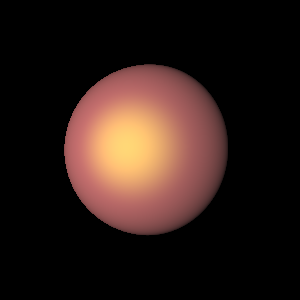
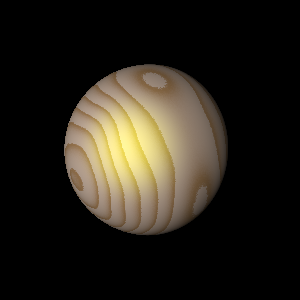
Modified constants to get wood to show up correctly on an object. Moved the main file that produces a texture image of wood to a separate Java file to use for demonstration purposes.

Changed region(s): [[0.21, 0.21, 0.75, 0.78]]

diff --git a/CS4621/src/cs4620/ray1/Wood.java b/CS4621/src/cs4620/ray1/Wood.java
@@ -1,60 +1,35 @@
 package cs4620.ray1;
 
-import egl.math.Color;
 import egl.math.Colord;
 
 public class Wood {
 	public static Colord woodColor = new Colord((144.0/255.0),(112.0/255.0),(90.0/255.0));
 	public static Colord darkColor = new Colord((93.0/255.0), (52.0/255.0), (21.0/255.0));
-	//public static Colord rayColor new Colord
-	public static void main(String[] args) {
-		int z = 1;
-		int num_pixels = 1000;
-		Image img = new Image(num_pixels, num_pixels);
-		img.clear();
-		
-		double random_noise = Math.random() * 50 + 225;
-		double random_i = Math.random() * Math.PI/6;
-		double random_j = Math.random() * Math.PI/12 + Math.PI * (5.0/12.0);
-		for (int i = 0; i < num_pixels; i++) {
-			for (int j = 0; j < num_pixels; j++) {
-				
-				// Rings
-				double newI = Math.cos(random_i) * i;
-				double newJ = Math.cos(random_j) * j;
-				
-				double newK = Math.sin(random_i) * i;
-				double noise = PerlinNoise.noise(newI/random_noise, 
-						newJ/random_noise, newK/random_noise);
-				
-				double div = 10;
-				
-				double particle_noise = PerlinNoise.noise(newK, newI, newJ)/20;
-				
-				double dist = Math.sqrt(Math.pow((newI/((num_pixels)/div)-(div/2)),2) 
-						+ Math.pow((newJ/(num_pixels/div)-(div/2)),2));
-				dist = Math.pow(1.5, dist) + noise + particle_noise;
-				
-				double t = dist-Math.floor(dist);
-				Colord thisColor = new Colord();
-				
-				double y = y(t,z);
-				thisColor.set(woodColor.r()*y+(1-y)*darkColor.r(), 
-						woodColor.g()*y+(1-y)*darkColor.g(), 
-						woodColor.b()*y+(1-y)*darkColor.b());
-				
-				
-				img.setPixelColor(thisColor, i, j);
-			}
-		}
-		
-		img.write("wood.png");
-		
 
+	public static Colord getPixelColor(double x, double y, double z, double random_noise) {
+		
+		double largeScale = 350;
+		double noise = PerlinNoise.noise(largeScale*x/random_noise, 
+				largeScale*y/random_noise, largeScale*z/random_noise);
+				
+		double particle_noise = PerlinNoise.noise(largeScale*x, largeScale*y, largeScale*z)/20;
+		
+		double smallScale = 5;
+		
+		double dist = Math.sqrt(x*x + y*y) * smallScale;
+		dist = Math.pow(1.5, dist) + noise + particle_noise;
+		
+		double t = dist-Math.floor(dist);
+		Colord thisColor = new Colord();
+		
+		double f = f(t,1);
+		thisColor.set(woodColor.clone().mul(f).addMultiple(1 - f, darkColor));
+		
+		return thisColor;
 	}
 	
-	public static double y (double t, double z) {
-		return ((z + Math.cos(2 * Math.PI * Math.pow(1-t, 0.25)))/(z+1));
+	public static double f (double t, double factor) {
+		return ((factor + Math.cos(2 * Math.PI * Math.pow(1-t, 0.25)))/(factor+1));
 	}
 
 }

diff --git a/CS4621/src/cs4620/ray1/shader/SubsurfaceCookTorrance.java b/CS4621/src/cs4620/ray1/shader/SubsurfaceCookTorrance.java
@@ -4,6 +4,7 @@ import cs4620.ray1.IntersectionRecord;
 import cs4620.ray1.Light;
 import cs4620.ray1.Ray;
 import cs4620.ray1.Scene;
+import cs4620.ray1.Wood;
 import egl.math.Color;
 import egl.math.Colord;
 import egl.math.Vector3d;
@@ -37,9 +38,11 @@ public class SubsurfaceCookTorrance extends Shader {
 	public void setFiberDirection(Vector3d fiberDirection){ this.fiberDirection.set(fiberDirection.normalize()); }
 	
 	//TODO: Change these to be a thing in the XML file
-	protected final Colord fiberColor = new Colord(Color.White);
-	protected final Colord dSubColor = new Colord(new Colord(Color.Brown).div(10));
+	protected final Colord fiberColor = new Colord(Wood.darkColor);
+	protected final Colord dSubColor = new Colord(Wood.darkColor.clone().div(20));
 	protected final double beta = 10;
+	
+	protected final double random_noise = Math.random() * 50 + 225;
 
 	public SubsurfaceCookTorrance() { }
 
@@ -66,9 +69,6 @@ public class SubsurfaceCookTorrance extends Shader {
 
 		//Reset the output color to be zero
 		outIntensity.setZero();
-
-		//To be able to user texture colors
-		Colord dColor = (texture == null) ? diffuseColor : texture.getTexColor(record.texCoords);
 		
 		//Check each light
 		for (Light light : scene.getLights()){
@@ -102,6 +102,8 @@ public class SubsurfaceCookTorrance extends Shader {
 				specTerm /= nDotV * nDotL;
 				
 				//Factor of the intensity
+				Colord dColor = Wood.getPixelColor(record.location.x, record.location.y, 
+												   record.location.z, random_noise);	
 				Vector3d color = dColor.clone().addMultiple(specTerm, specularColor);
 				
 				//Degree of reflection
@@ -117,21 +119,12 @@ public class SubsurfaceCookTorrance extends Shader {
 
 				//Then distance fall-off
 				color.mul(1/Math.pow(r, 2));
-
+				
 				//Add to the color
 				outIntensity.add(color);
 			}
 		}
 	}
-
-	/**
-	 * Schlick approximation of the Fresnel term
-	 */
-	private double getFresnelApproximation(Vector3d halfAngle, Vector3d viewingAngle) {
-		
-		return fNaught + (1 - fNaught)*Math.pow((1 - viewingAngle.dot(halfAngle)), 5);
-	}
-	
 	
 	/**
 	 * Based on the actual Fresnel Equation

diff --git a/CS4621/src/cs4620/ray1/WoodImageRenderer.java b/CS4621/src/cs4620/ray1/WoodImageRenderer.java
@@ -1,0 +1,59 @@
+package cs4620.ray1;
+
+import egl.math.Colord;
+
+public class WoodImageRenderer {
+	public static Colord woodColor = new Colord((144.0/255.0),(112.0/255.0),(90.0/255.0));
+	public static Colord darkColor = new Colord((93.0/255.0), (52.0/255.0), (21.0/255.0));
+
+	public static void main(String[] args) {
+		int z = 1;
+		int num_pixels = 1000;
+		Image img = new Image(num_pixels, num_pixels);
+		img.clear();
+		
+		double random_noise = Math.random() * 50 + 225;
+		double random_i = Math.random() * Math.PI/6;
+		double random_j = Math.random() * Math.PI/12 + Math.PI * (5.0/12.0);
+		for (int i = 0; i < num_pixels; i++) {
+			for (int j = 0; j < num_pixels; j++) {
+				
+				// Rings
+				double newI = Math.cos(random_i) * i;
+				double newJ = Math.cos(random_j) * j;
+				
+				double newK = Math.sin(random_i) * i;
+				double noise = PerlinNoise.noise(newI/random_noise, 
+						newJ/random_noise, newK/random_noise);
+				
+				double div = 10;
+				
+				double particle_noise = PerlinNoise.noise(newK, newI, newJ)/20;
+				
+				double dist = Math.sqrt(Math.pow((newI/((num_pixels)/div)-(div/2)),2) 
+						+ Math.pow((newJ/(num_pixels/div)-(div/2)),2));
+				dist = Math.pow(1.5, dist) + noise + particle_noise;
+				
+				double t = dist-Math.floor(dist);
+				Colord thisColor = new Colord();
+				
+				double y = y(t,z);
+				thisColor.set(woodColor.r()*y+(1-y)*darkColor.r(), 
+						woodColor.g()*y+(1-y)*darkColor.g(), 
+						woodColor.b()*y+(1-y)*darkColor.b());
+				
+				
+				img.setPixelColor(thisColor, i, j);
+			}
+		}
+		
+		img.write("wood.png");
+		
+
+	}
+	
+	public static double y (double t, double z) {
+		return ((z + Math.cos(2 * Math.PI * Math.pow(1-t, 0.25)))/(z+1));
+	}
+
+}

diff --git a/CS4621/src/cs4620/ray1/IntersectionRecord.java b/CS4621/src/cs4620/ray1/IntersectionRecord.java
@@ -14,6 +14,9 @@ public class IntersectionRecord {
 
   /** The location where the intersection occurred. */
   public final Vector3d location = new Vector3d();
+  
+  /** The object-space coordinates of the location. */
+  public final Vector3d objLocaton = new Vector3d();
 
   /** The normal of the surface at the intersection location. */
   public final Vector3d normal = new Vector3d();
@@ -34,6 +37,7 @@ public class IntersectionRecord {
    */
   public void set(IntersectionRecord inRecord) {
     location.set(inRecord.location);
+    objLocaton.set(inRecord.location);
     normal.set(inRecord.normal);
     texCoords.set(inRecord.texCoords);
     surface = inRecord.surface;   

diff --git a/CS4621/src/cs4620/ray1/surface/Sphere.java b/CS4621/src/cs4620/ray1/surface/Sphere.java
@@ -78,6 +78,9 @@ public class Sphere extends Surface {
 	  //Set the out record values
 	  outRecord.t = tVal;
 	  outRecord.location.set(position);
+	  
+	  //TODO: Make this more accurate using ray 2
+	  outRecord.objLocaton.set(position);
 	  outRecord.normal.set(normal);
 	  outRecord.texCoords.set(texCoords);
 	  outRecord.surface = this;
